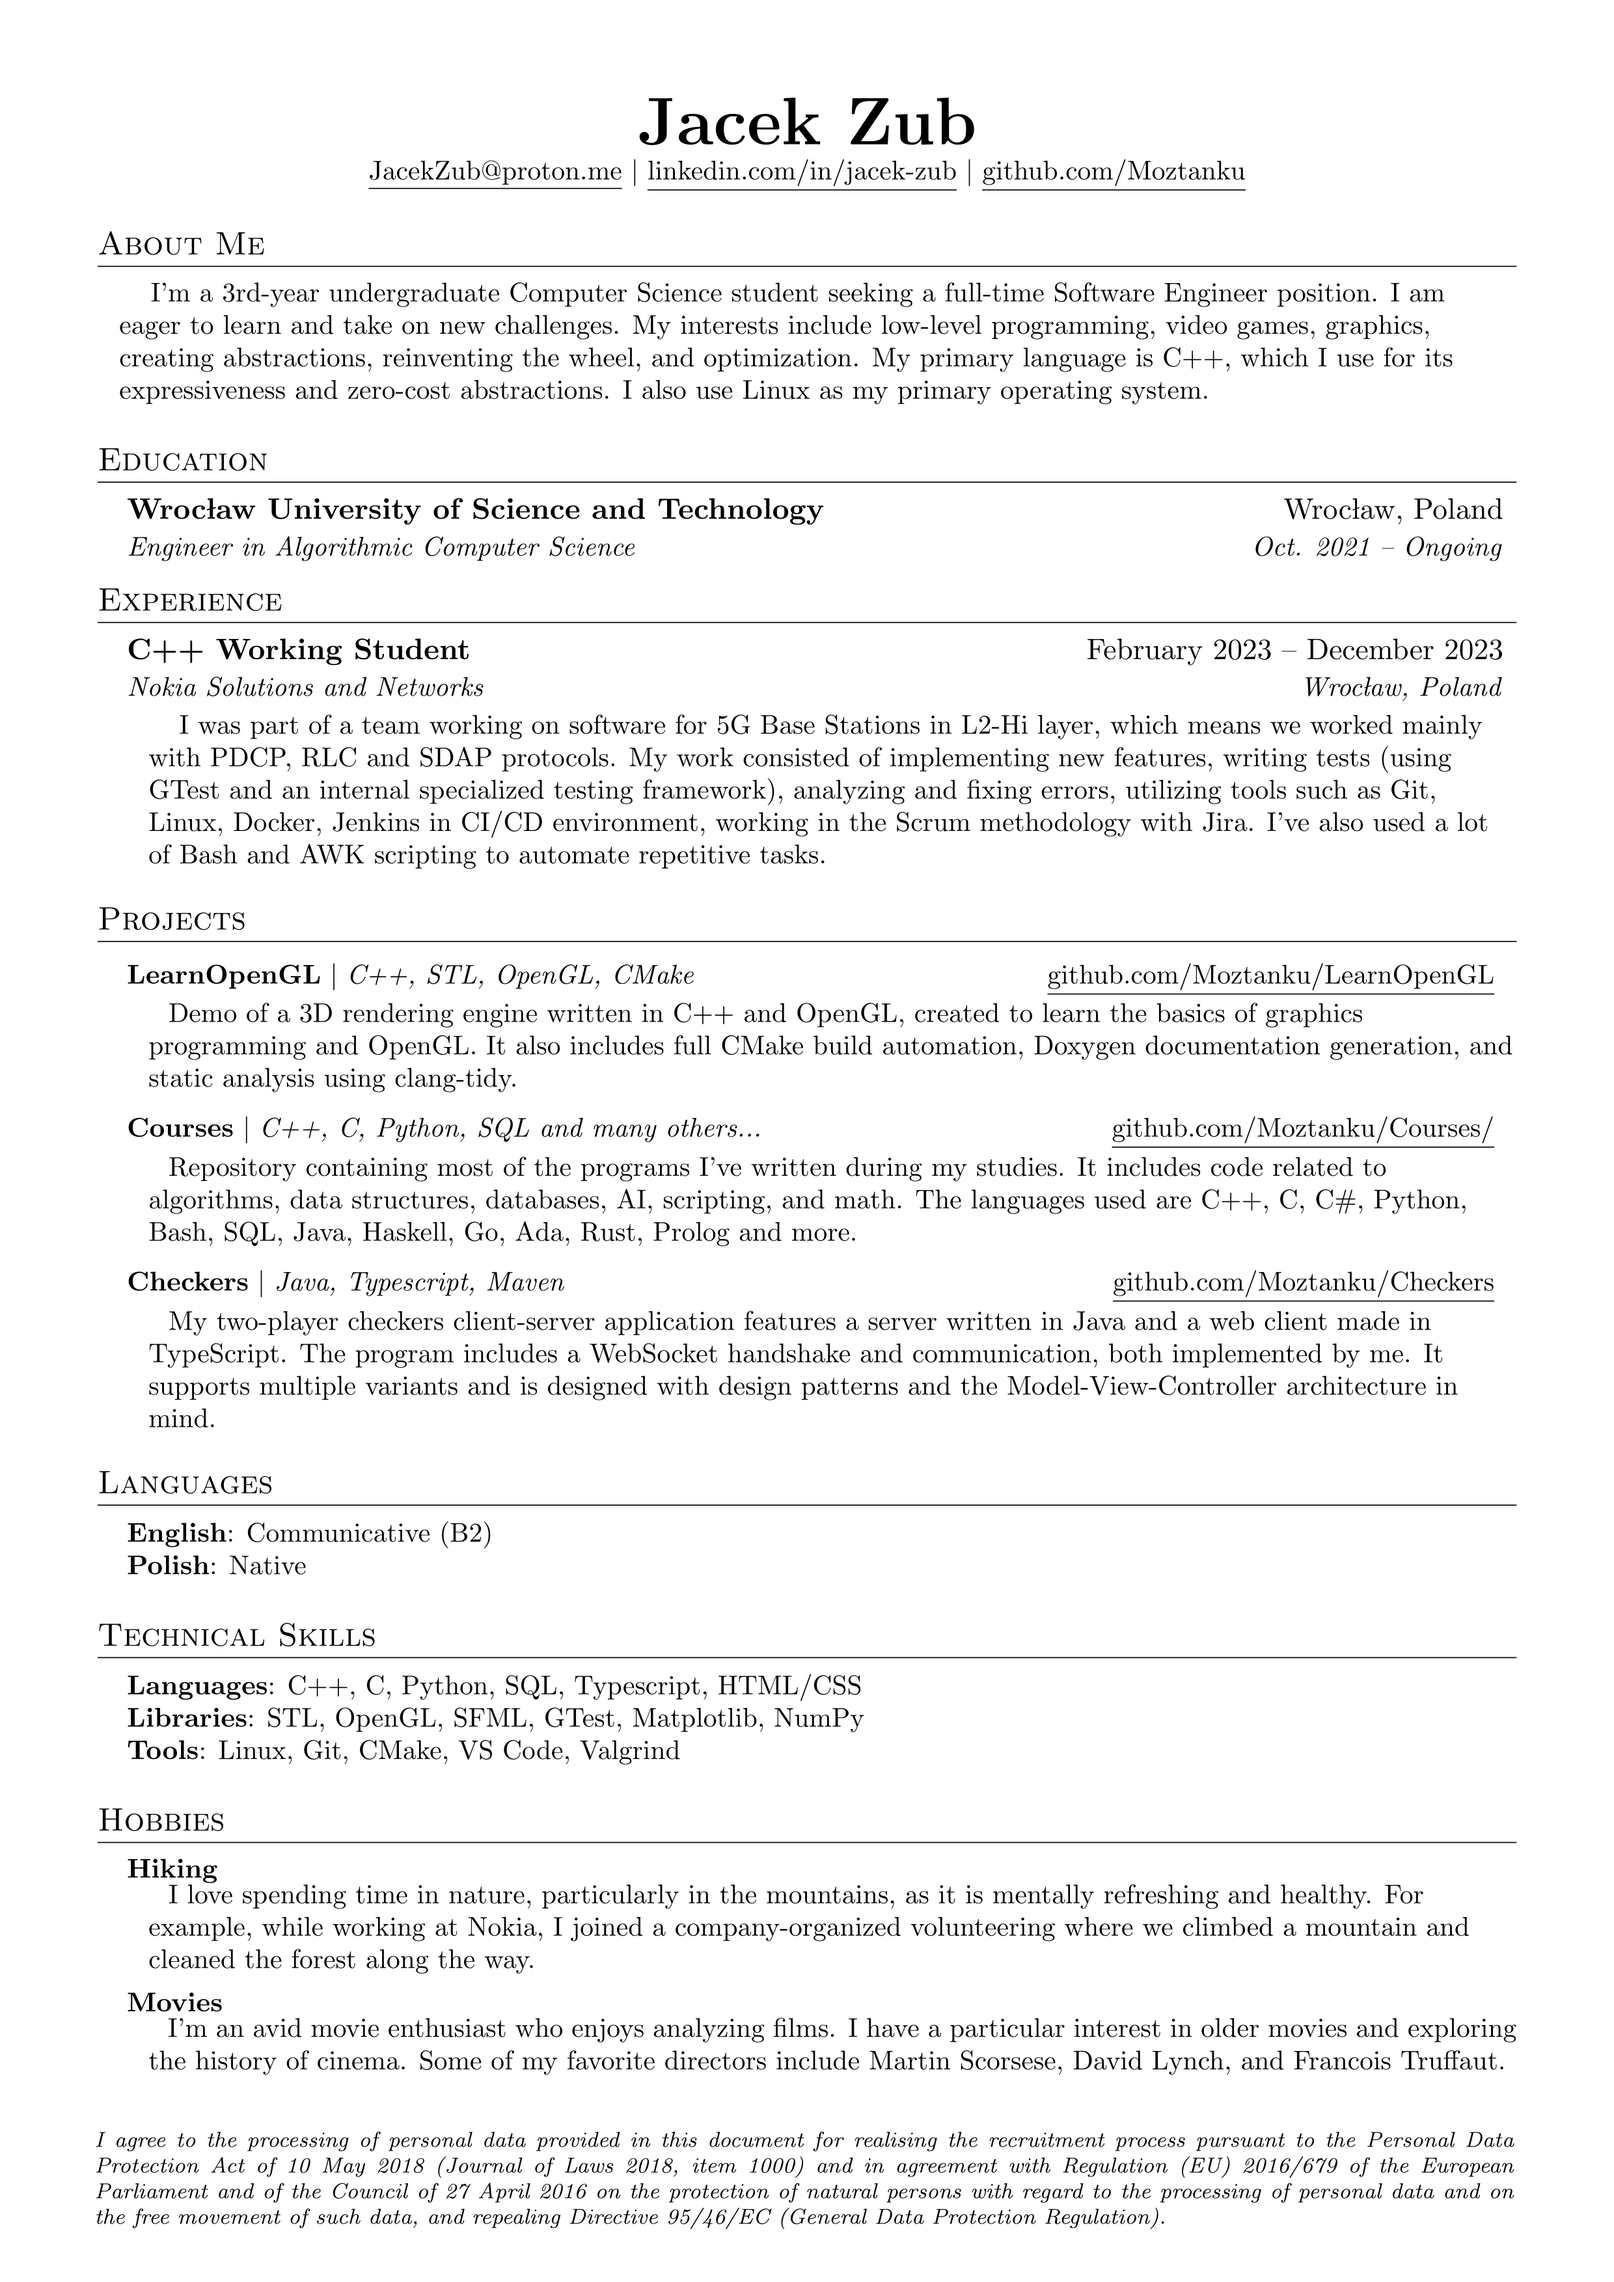
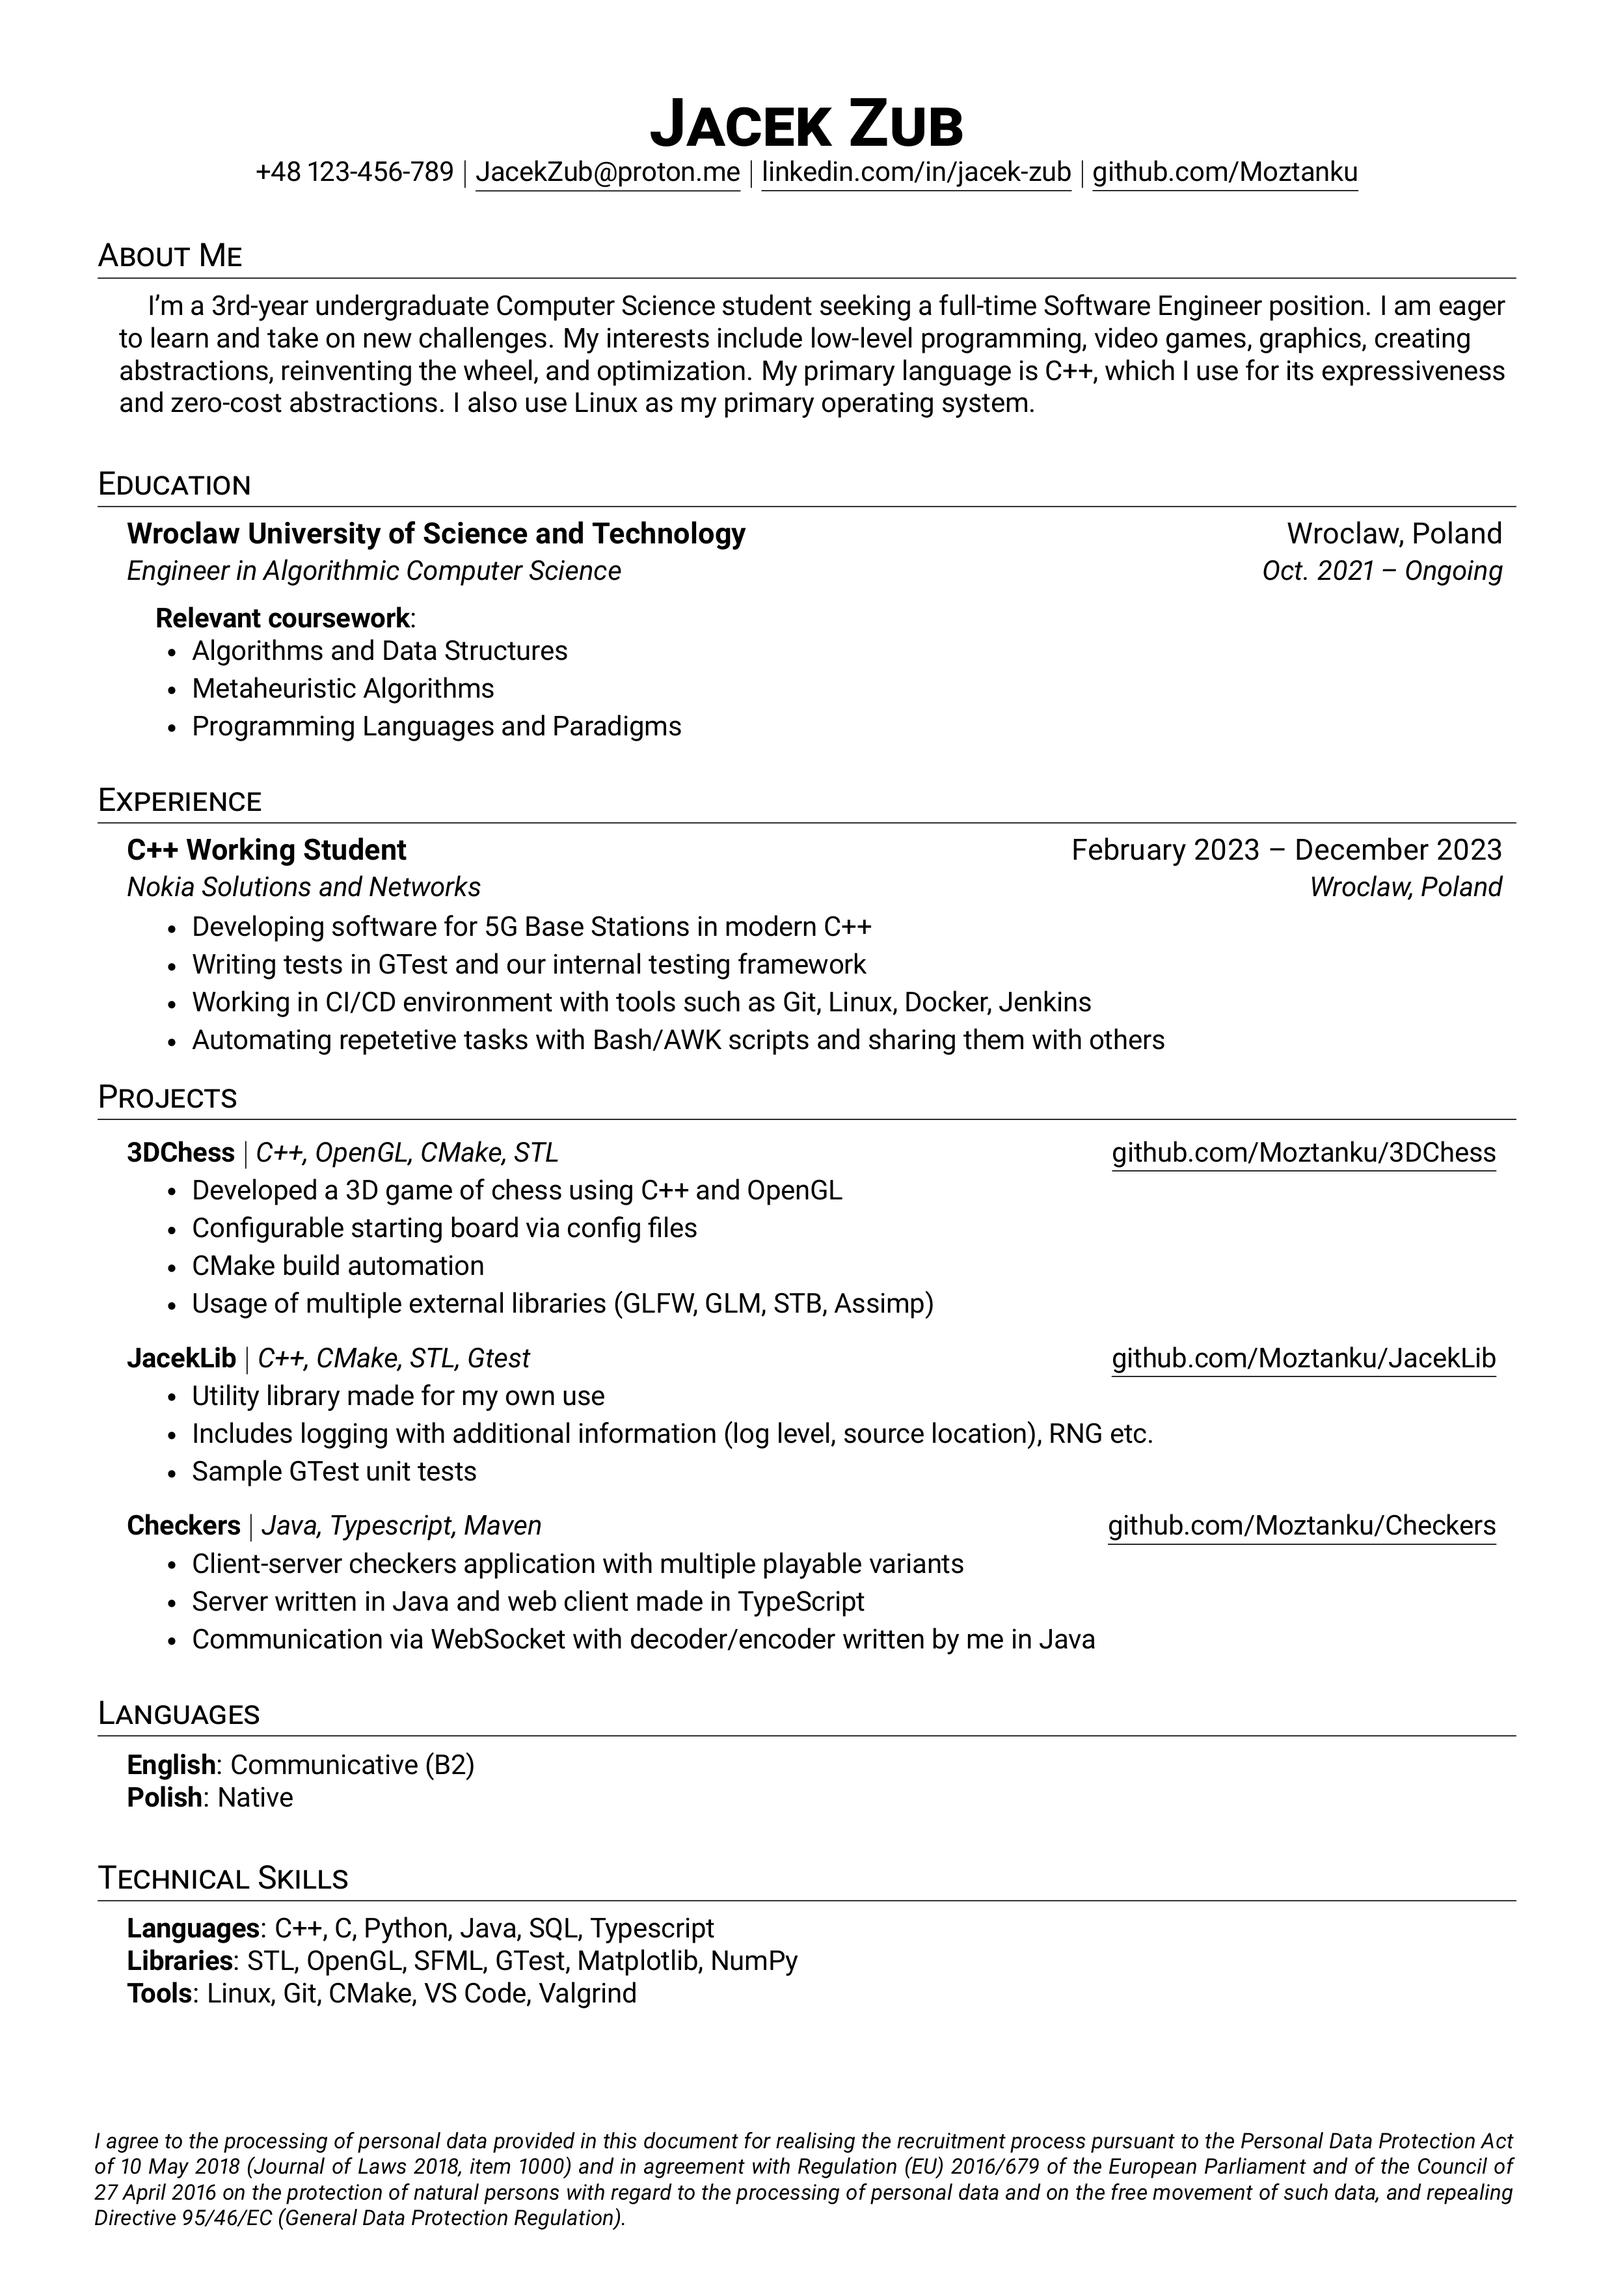
Updated resume

diff --git a/my_resume.tex b/my_resume.tex
@@ -6,7 +6,7 @@
 %------------------------
 
 \newcommand{\myName}{Jacek Zub}
-\newcommand{\myPhoneNumber}{}
+\newcommand{\myPhoneNumber}{+48 123-456-789}
 \newcommand{\myEmail}{JacekZub@proton.me}
 \newcommand{\myLinkedIn}{linkedin.com/in/jacek-zub}
 \newcommand{\myGithub}{github.com/Moztanku}
@@ -32,7 +32,7 @@
 %----------FONT OPTIONS----------
 % sans-serif
 % \usepackage[sfdefault]{FiraSans}
-% \usepackage[sfdefault]{roboto}
+\usepackage[sfdefault]{roboto}
 % \usepackage[sfdefault]{noto-sans}
 % \usepackage[default]{sourcesanspro}
 
@@ -61,7 +61,7 @@
 
 % Sections formatting
 \titleformat{\section}{
-  \vspace{-4pt}\scshape\raggedright\large
+  \vspace{0pt}\scshape\raggedright\large
 }{}{0em}{}[\color{black}\titlerule \vspace{-5pt}]
 
 % Ensure that generate pdf is machine readable/ATS parsable
@@ -78,6 +78,12 @@
 \newcommand{\resumeItemm}[1]{
   \item\small{
     {#1 \vspace{-2pt}}
+  }
+}
+
+\newcommand{\resumeItemListHeading}[1]{
+  \small{
+    {\vspace{10pt} \hspace{-16pt} \textbf{#1}: \vspace{-4pt}}
   }
 }
 
@@ -120,7 +126,7 @@
 \begin{center}
     \textbf{\Huge \scshape \myName} \\ \vspace{1pt}
     \small 
-        % {\myPhoneNumber} $|$
+        {\myPhoneNumber} $|$
         {\expandafter\href\expandafter{mailto:\myEmail}{\underline{\myEmail}}} $|$
         {\expandafter\href\expandafter{https://www.\myLinkedIn}{\underline{\myLinkedIn}}} $|$
         {\expandafter\href\expandafter{https://www.\myGithub}{\underline{\myGithub}}}
@@ -137,58 +143,63 @@
 \section{Education}
   \resumeSubHeadingListStart
     \resumeSubheading
-      {Wrocław University of Science and Technology}{Wrocław, Poland}
+      {Wroclaw University of Science and Technology}{Wroclaw, Poland}
       {Engineer in Algorithmic Computer Science}{Oct. 2021 -- Ongoing}
+    \resumeItemListStart
+        \resumeItemListHeading{Relevant coursework}
+        \resumeItem{Algorithms and Data Structures}
+        \resumeItem{Metaheuristic Algorithms}
+        \resumeItem{Programming Languages and Paradigms}
+    \resumeItemListEnd
   \resumeSubHeadingListEnd
 
 %-----------EXPERIENCE-----------
 \section{Experience}
   \resumeSubHeadingListStart
-
     \resumeSubheading
         {C++ Working Student}{February 2023 -- December 2023}
-        {Nokia Solutions and Networks}{Wrocław, Poland}
+        {Nokia Solutions and Networks}{Wroclaw, Poland}
     \resumeItem{
-        \begin{adjustwidth}{8pt}{4pt}
-        \hspace{8pt}
-        I was part of a team working on software for 5G Base Stations in L2-Hi layer, which means we worked mainly with PDCP, RLC and SDAP protocols. My work consisted of implementing new features, writing tests (using GTest and an internal specialized testing framework), analyzing and fixing errors, utilizing tools such as Git, Linux, Docker, Jenkins in CI/CD environment, working in the Scrum methodology with Jira. I've also used a lot of Bash and AWK scripting to automate repetitive tasks. 
-        \end{adjustwidth}
+        \resumeItemListStart
+            \resumeItem{Developing software for 5G Base Stations in modern C++}
+            \resumeItem{Writing tests in GTest and our internal testing framework}
+            \resumeItem{Working in CI/CD environment with tools such as Git, Linux, Docker, Jenkins}
+            \resumeItem{Automating repetetive tasks with Bash/AWK scripts and sharing them with others}
+        \resumeItemListEnd
     }
-
   \resumeSubHeadingListEnd
-
 
 %-----------PROJECTS-----------
 \section{Projects}
     \resumeSubHeadingListStart
         \resumeProjectHeading
-            {\textbf{LearnOpenGL} $|$ \emph
-                {C++, STL, OpenGL, CMake}
+            {\textbf{3DChess} $|$ \emph
+                {C++, OpenGL, CMake, STL}
             }
             {\small{\href
-                {https://github.com/Moztanku/LearnOpenGL}
-                {\underline{github.com/Moztanku/LearnOpenGL}}
+                {https://github.com/Moztanku/3DChess}
+                {\underline{github.com/Moztanku/3DChess}}
             }}
-            \resumeItem{
-                \begin{adjustwidth}{8pt}{0pt}
-                \hspace{4pt}
-                Demo of a 3D rendering engine written in C++ and OpenGL, created to learn the basics of graphics programming and OpenGL. It also includes full CMake build automation, Doxygen documentation generation, and static analysis using clang-tidy.
-                \end{adjustwidth}
-            }
+            \resumeItemListStart
+                \resumeItem{Developed a 3D game of chess using C++ and OpenGL}
+                \resumeItem{Configurable starting board via config files}
+                \resumeItem{CMake build automation}
+                \resumeItem{Usage of multiple external libraries (GLFW, GLM, STB, Assimp)}
+            \resumeItemListEnd
+
         \resumeProjectHeading
-            {\textbf{Courses} $|$ \emph
-                {C++, C, Python, SQL and many others...}
+            {\textbf{JacekLib} $|$ \emph
+                {C++, CMake, STL, Gtest}
             }
             {\small{\href
-                {https://github.com/Moztanku/Courses/}
-                {\underline{github.com/Moztanku/Courses/}}
+                {https://github.com/Moztanku/JacekLib}
+                {\underline{github.com/Moztanku/JacekLib}}
             }}
-            \resumeItem{
-                \begin{adjustwidth}{8pt}{0pt}
-                \hspace{4pt}
-                Repository containing most of the programs I've written during my studies. It includes code related to algorithms, data structures, databases, AI, scripting, and math. The languages used are C++, C, C\#, Python, Bash, SQL, Java, Haskell, Go, Ada, Rust, Prolog and more.
-                \end{adjustwidth}
-            }
+            \resumeItemListStart
+                \resumeItem{Utility library made for my own use}
+                \resumeItem{Includes logging with additional information (log level, source location), RNG etc.}
+                \resumeItem{Sample GTest unit tests}
+            \resumeItemListEnd
         \resumeProjectHeading
             {\textbf{Checkers} $|$ \emph
                 {Java, Typescript, Maven}
@@ -197,12 +208,11 @@
                 {https://github.com/Moztanku/Checkers}
                 {\underline{github.com/Moztanku/Checkers}}
             }}
-            \resumeItem{
-                \begin{adjustwidth}{8pt}{0pt}
-                \hspace{4pt}
-                My two-player checkers client-server application features a server written in Java and a web client made in TypeScript. The program includes a WebSocket handshake and communication, both implemented by me. It supports multiple variants and is designed with design patterns and the Model-View-Controller architecture in mind.
-                \end{adjustwidth}
-            }
+            \resumeItemListStart
+                \resumeItem{Client-server checkers application with multiple playable variants}
+                \resumeItem{Server written in Java and web client made in TypeScript}
+                \resumeItem{Communication via WebSocket with decoder/encoder written by me in Java}
+            \resumeItemListEnd
             
     \resumeSubHeadingListEnd
 %           -LANGUAGES-
@@ -223,9 +233,9 @@
       C++,
       C,
       Python,
+      Java,
       SQL,
-      Typescript,
-      HTML/CSS
+      Typescript
       } \\
      \textbf{Libraries}{:
         STL,
@@ -244,27 +254,6 @@
     }
     }}
  \end{itemize}
-
-%           -INTERESTS-
-
-\section{Hobbies}
-    \resumeSubHeadingListStart
-        \item{
-            \small{\textbf{Hiking}} \\
-            \begin{adjustwidth}{8pt}{0pt}
-            \vspace{-10pt} \hspace{4pt}
-            I love spending time in nature, particularly in the mountains, as it is mentally refreshing and healthy. For example, while working at Nokia, I joined a company-organized volunteering where we climbed a mountain and cleaned the forest along the way.
-            \end{adjustwidth}
-        }
-        \vspace{-8pt}
-        \item{
-            \small{\textbf{Movies}} \\
-            \begin{adjustwidth}{8pt}{0pt}
-            \vspace{-10pt} \hspace{4pt}
-            I'm an avid movie enthusiast who enjoys analyzing films. I have a particular interest in older movies and exploring the history of cinema. Some of my favorite directors include Martin Scorsese, David Lynch, and Francois Truffaut.
-            \end{adjustwidth}
-        }
-    \resumeSubHeadingListEnd
 %-------------------------------------------
 
 %           -FOOTER-
